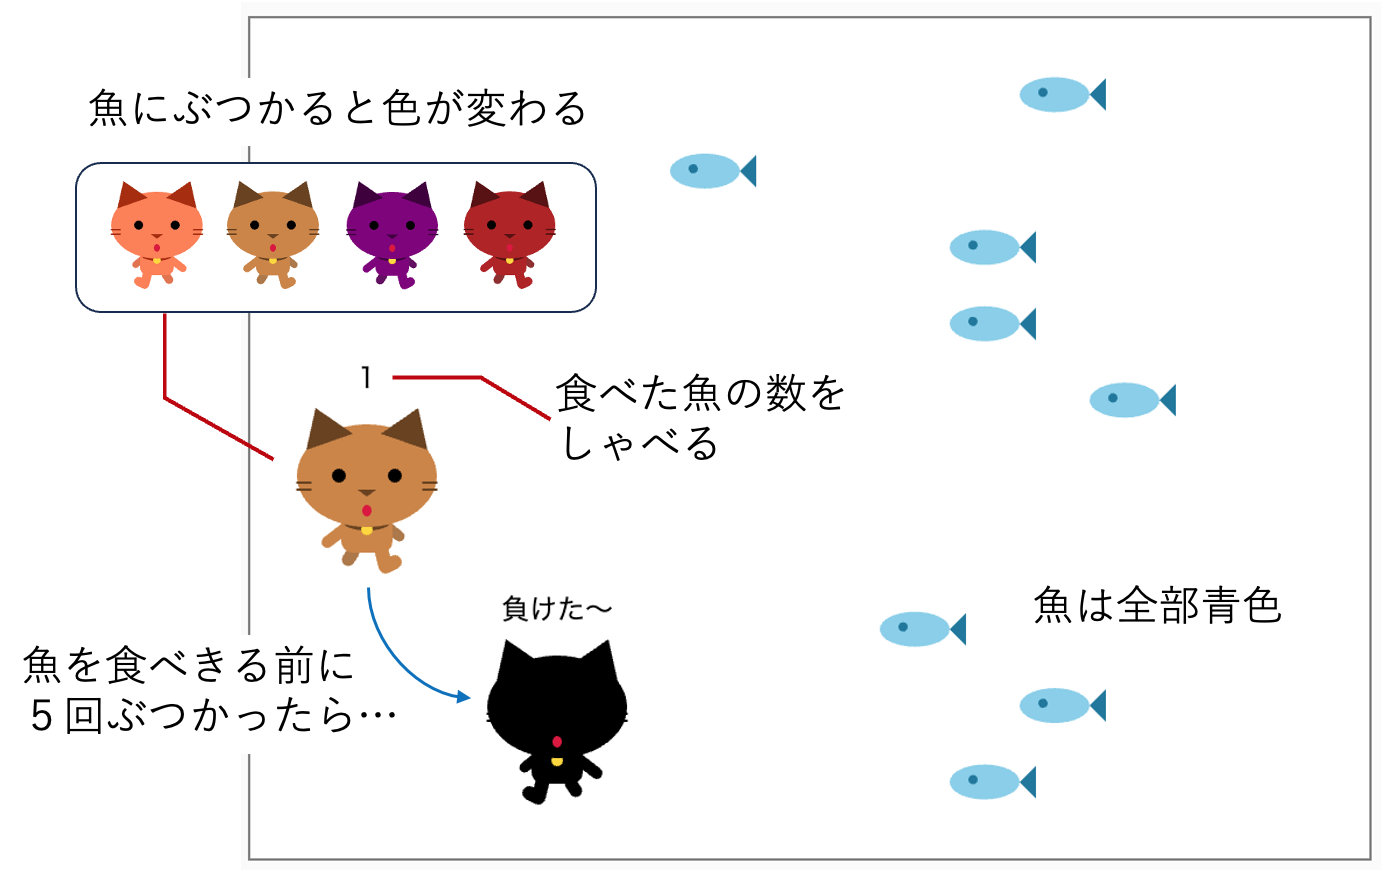
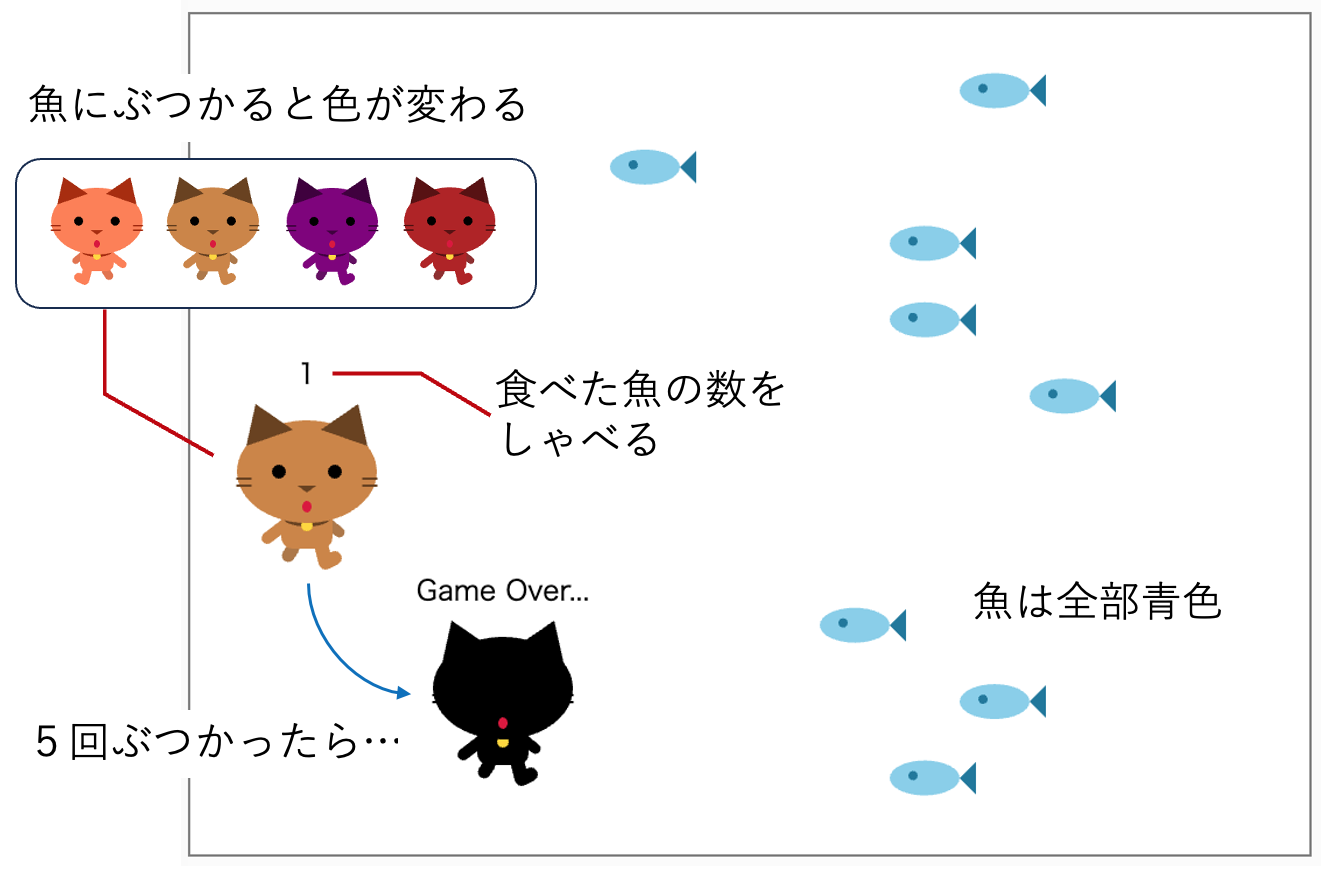
更新

diff --git a/lesson/12.html b/lesson/12.html
@@ -437,18 +437,17 @@
 
     <ol>
       <li>
-        魚の配置方法はレッスン11と同じだが、すべて同じ青色（既定値）とする。また、魚が動くたびに速度が上がっていくように変更。
-      </li>
-      <li>
-        ピゴニャンが魚を食べると、食べた数（スコア）をピゴニャンがしゃべる。魚を食べきるとピゴニャンの勝ち（「勝った！」としゃべる）。
-      </li>
-      <li>
-        ピゴニャンが魚にぶつかると、ピゴニャンの色が変わる（その代わり、食べた魚の色には変わらない）。5回当たると黒くなって終了（「負けた〜」としゃべる）。
+        魚の配置方法はレッスン11と同じだが、すべて同じ青色（既定値）とする。また、魚が動くたびに速度が上がっていくように変更する。
       </li>
       <li>
         魚の行進（全体移動）処理は<ruby>marchFish<rt>マーチフィッシュ</rt></ruby
         >関数とする。引数に、魚の移動距離（速度）を受け取る。
       </li>
+      <li>
+        ピゴニャンが魚にぶつかると、ピゴニャンの色が変わる（そのかわりピゴニャンが魚を食べたときに色は変えない）。5回当たると黒くなって終了、「Game
+        Over...」としゃべる。
+      </li>
+      <li>ゲームが終わると魚が止まり、キー入力も受け付けなくなる。</li>
     </ol>
 
     <figure class="M">
@@ -467,9 +466,7 @@
       新しい「ピゴニャンのスケッチ」を用意して次のコードと置きかえ、<mark
         >/* */</mark
       >
-      でコメントアウトされた部分の指示どおりにコードを編集してください。<br />
-      なお、本では説明しなかった getFishNum
-      関数が71行目に登場します。キャンバスに表示されている魚の数を戻り値として返す関数です。
+      でコメントアウトされた部分の指示どおりにコードを編集してください。
     </p>
 
     <code
@@ -494,9 +491,8 @@
       <li>
         問4・問5はレッスン9（配列）の復習です。配列colsの要素を先頭からひとつずつ取り出す（削除する）ことで、最後にピゴニャンが黒くなったときには配列が空になることを利用しています。
       </li>
-      <li>問6・問7はコードは単純ですが、どの変数を使うでしょう。</li>
       <li>
-        問8は、まったく同じ処理をしているところがあります。もちろん、それを探すのではなく、自分の頭で考えるのが一番です。
+        問6は、ゲームが終了したときにキー入力を受け付けなくするための処理です。他にもこれとよく似た処理があります。
       </li>
     </ul>
 

diff --git a/p5-sprite.js b/p5-sprite.js
@@ -686,15 +686,15 @@ class Sprite {
       if (Sprite.withBody) {
         if (fx < x + 45 && fx > x - 52 && fy < y + 36 && fy > y - 44) {
           eaten = fish;
-          return false;
+          return false; // リストから削除
         }
       } else {
         if (fx < x + 45 && fx > x - 52 && fy < y + 30 && fy > y - 30) {
           eaten = fish;
-          return false;
+          return false; // リストから削除
         }
       }
-      return true;
+      return true; // リストに残す
     });
     if (eaten) {
       return { x: eaten.x, y: eaten.y, col: eaten.col };
